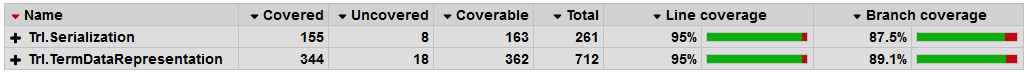
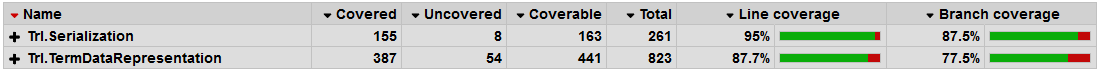
Add term parser

diff --git a/Trl.TermDataRepresentation/Parser/TrlParser.cs b/Trl.TermDataRepresentation/Parser/TrlParser.cs
@@ -35,7 +35,9 @@ namespace Trl.TermDataRepresentation.Parser
                 _pegFacade.Token(TokenNames.Comma, new Regex(@",", RegexOptions.Compiled)),
                 _pegFacade.Token(TokenNames.Colon, new Regex(@":", RegexOptions.Compiled)),
                 _pegFacade.Token(TokenNames.OpenRoundBracket, new Regex(@"\(", RegexOptions.Compiled)),
-                _pegFacade.Token(TokenNames.CloseRoundBracket, new Regex(@"\)", RegexOptions.Compiled))
+                _pegFacade.Token(TokenNames.CloseRoundBracket, new Regex(@"\)", RegexOptions.Compiled)),
+                _pegFacade.Token(TokenNames.OpenAngleBracket, new Regex(@"\<", RegexOptions.Compiled)),
+                _pegFacade.Token(TokenNames.CloseAngleBracket, new Regex(@"\>", RegexOptions.Compiled))
             });
         }
 
@@ -136,6 +138,52 @@ namespace Trl.TermDataRepresentation.Parser
                 }
                 return termList;
             });
+
+            _pegFacade.DefaultSemanticActions.SetNonTerminalAction(ParseRuleNames.ClassMemberMapping, (matchTokens, subResults, matchedSpec) =>
+            {
+                var mappings = new ClassMemberMappingsList
+                {
+                    ClassMembers = new List<Identifier>()
+                };
+                var results = subResults?.FirstOrDefault()?.GetSubResults();
+                if (results?[1].GetSubResults()[0] != null)
+                {
+                    var list = results?[1].GetSubResults()[0].GetSubResults();
+                    if (list[0] != null)
+                    {
+                        mappings.ClassMembers.Add((Identifier)list[0]);
+                        var tail = list[1].GetSubResults();
+                        foreach (var tailResult in tail)
+                        {
+                            var id = tailResult.GetSubResults()[1];
+                            mappings.ClassMembers.Add((Identifier)id);
+                        }
+                    }
+                }
+                return mappings;
+            });
+
+            _pegFacade.DefaultSemanticActions.SetNonTerminalAction(ParseRuleNames.NonACTerm, (matchTokens, subResults, matchedSpec) =>
+            {
+                var term = new NonAcTerm();
+                var concatResults = subResults?.FirstOrDefault()?.GetSubResults();
+                term.TermName = (Identifier)concatResults[0];
+                var tail = concatResults[1].GetSubResults();
+                if (tail.Count == 2)
+                {
+                    term.ClassMemberMappings = (ClassMemberMappingsList)tail[0];
+                    term.Arguments = ((CommaSeperatedTerms)tail[1].GetSubResults()[1].GetSubResults()[0]).Terms;
+                }
+                else if (tail.Count == 1) 
+                {
+                    term.Arguments = ((CommaSeperatedTerms)tail[0]).Terms;
+                }
+                else
+                {
+                    throw new Exception(); // there could only be 1 or 2 results
+                }
+                return term;
+            });
         }
 
         private void CreateParser()
@@ -143,10 +191,12 @@ namespace Trl.TermDataRepresentation.Parser
             const string grammer = @"
 Start => (Statement? [SemiColon])+;
 Statement => Label? Term;
-Term => [Identifier] | [String] | [Number] | TermList;
+Term => NonACTerm | [Identifier] | [String] | [Number] | TermList;
 Label => [Identifier] ([Comma] [Identifier])* [Colon];
 TermList => [OpenRoundBracket] CommaSeperatedTerms [CloseRoundBracket];
 CommaSeperatedTerms => (Term ([Comma] Term)*)?;
+NonACTerm => [Identifier] ClassMemberMapping? [OpenRoundBracket] CommaSeperatedTerms [CloseRoundBracket];
+ClassMemberMapping => [OpenAngleBracket] ([Identifier] ([Comma] [Identifier])*)? [CloseAngleBracket];
 ";
             _parser = _pegFacade.Parser(ParseRuleNames.Start, _pegFacade.ParserGenerator.GetParsingRules(grammer));
         }

diff --git a/Trl.TermDataRepresentation.Tests/TrlParserTests.cs b/Trl.TermDataRepresentation.Tests/TrlParserTests.cs
@@ -123,5 +123,43 @@ namespace Trl.TermDataRepresentation.Tests
             var termList = (TermList)statement.Term;
             Assert.Equal(expectedLength, termList.Terms.Count);
         }
+
+        [InlineData("t1(a,\"a\",123, a(b));", 4, 0)]
+        [InlineData("root: t1(a);", 1, 0)]
+        [InlineData("vertex<x,y,z>(1,2,3);", 3, 3)]
+        [InlineData("date();", 0, 0)]
+        [InlineData("root: random<>();", 0, 0)]
+        [Theory]
+        public void ShouldParseTerm(string parseInput, int expectedArgsCount, int expectedClassMemberMappingsCount)
+        {
+            // Act
+            var result = _parser.ParseToAst(parseInput);
+
+            // Assert
+            Assert.True(result.Succeed);
+            var term = (NonAcTerm)result.Statements.Statements.Single().Term;            
+            Assert.Equal(expectedArgsCount, term.Arguments.Count);
+            Assert.Equal(expectedClassMemberMappingsCount, term.ClassMemberMappings?.ClassMembers.Count ?? 0);
+        }
+
+        [Fact(Skip="Semantic Checks Under Construction")]
+        public void ShouldHaveEqualNumberOfArgumentsAndAnnotations()
+        {
+            // Act
+            var result = _parser.ParseToAst("vertex<x,y>(1,2,3);");
+
+            // Assert
+            Assert.False(result.Succeed);
+        }
+
+        [Fact(Skip = "Semantic Checks Under Construction")]
+        public void ShouldNotAllowNamespacedClassMemberMappings()
+        {
+            // Act
+            var result = _parser.ParseToAst("vertex<coords.x,coords.y,coords.z>(1,2,3);");
+
+            // Assert
+            Assert.False(result.Succeed);
+        }
     }
 }

diff --git a/Trl.TermDataRepresentation/Parser/AST/NonAcTerm.cs b/Trl.TermDataRepresentation/Parser/AST/NonAcTerm.cs
@@ -1,0 +1,32 @@
+using System.Collections.Generic;
+using System.IO;
+using System.Linq;
+using Trl.PegParser.Grammer.Semantics;
+
+namespace Trl.TermDataRepresentation.Parser.AST
+{
+    public class NonAcTerm 
+        : GenericPassthroughResult<ITrlParseResult, TokenNames>, ITrlParseResult, ITrlTerm
+    {
+        public Identifier TermName { get; set; }
+        public ClassMemberMappingsList ClassMemberMappings { get; set; }
+        public List<ITrlTerm> Arguments { get; set; }
+
+        public void WriteToStream(StreamWriter outputStream)
+        {
+            TermName.WriteToStream(outputStream);
+            ClassMemberMappings?.WriteToStream(outputStream);
+            outputStream.Write("(");
+            if (Arguments != null && Arguments.Any())
+            {
+                Arguments[0].WriteToStream(outputStream);
+                foreach (var arg in Arguments.Skip(1))
+                {
+                    outputStream.Write(",");
+                    arg.WriteToStream(outputStream);
+                }
+            }            
+            outputStream.Write(")");
+        }
+    }
+}

diff --git a/Trl.TermDataRepresentation/Parser/AST/ClassMemberMappingsList.cs b/Trl.TermDataRepresentation/Parser/AST/ClassMemberMappingsList.cs
@@ -1,0 +1,29 @@
+using System.Collections.Generic;
+using System.IO;
+using System.Linq;
+using Trl.PegParser.Grammer.Semantics;
+
+namespace Trl.TermDataRepresentation.Parser.AST
+{
+    public class ClassMemberMappingsList : GenericPassthroughResult<ITrlParseResult, TokenNames>, ITrlParseResult
+    {
+        public List<Identifier> ClassMembers { get; set; }
+
+        public void WriteToStream(StreamWriter outputStream)
+        {
+            if (ClassMembers == null || !ClassMembers.Any())
+            {
+                outputStream.Write("<>");
+                return;
+            }
+            outputStream.Write("<");
+            ClassMembers.First().WriteToStream(outputStream);
+            foreach (var classMember in ClassMembers.Skip(1))
+            {
+                outputStream.Write(",");
+                classMember.WriteToStream(outputStream);
+            }
+            outputStream.Write(">");
+        }
+    }
+}

diff --git a/Trl.TermDataRepresentation/Parser/ParseRuleNames.cs b/Trl.TermDataRepresentation/Parser/ParseRuleNames.cs
@@ -10,6 +10,8 @@
         Start,
         Statement,
         Term,
-        Label
+        Label,
+        ClassMemberMapping,
+        NonACTerm
     }
 }
